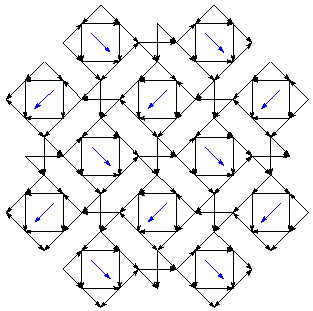
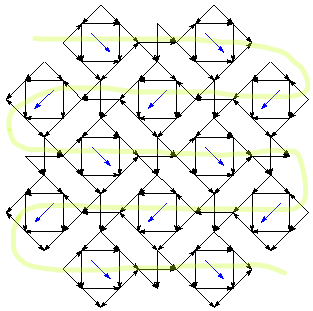
working order

Changed region(s): [[0.0, 0.1158, 1.0, 0.8971]]

diff --git a/docs/droste.md b/docs/droste.md
@@ -27,6 +27,7 @@ and a plain text file (<a href="../data/wobble.txt" download>download</a>).
 On the right a distorted version that matches a Torchon grid. 
 The units of the rose-ground are placed in different directions.
 These units can be replaced with units of a bias ground.
+The green line indicates the working order inherited frm the first pair diagram.
 
 ### Generate diagrams (color coded and threads)
 
@@ -38,8 +39,3 @@ in the advanced section for the thread diagram.
 
 {% include wobble.html %}
 {% include stitches.html %}
-
-```
-CHECKER	18	18
-[6,0,3,2,8,3]	[15,1,14,5,18,4]	[3,2,2,7,8,3]	[8,3,7,8,10,6]	[0,4,3,2,2,7]	[14,5,18,4,13,9]	[10,6,14,5,13,9]	[2,7,7,8,4,10]	[7,8,10,6,4,10]	[13,9,11,12,16,11]	[4,10,1,13,5,14]	[16,11,11,12,17,16]	[11,12,9,15,12,17]	[1,13,-1,16,-2,11]	[5,14,1,13,6,18]	[9,15,5,14,6,18]	[17,16,12,17,15,19]	[12,17,9,15,15,19]
-```
